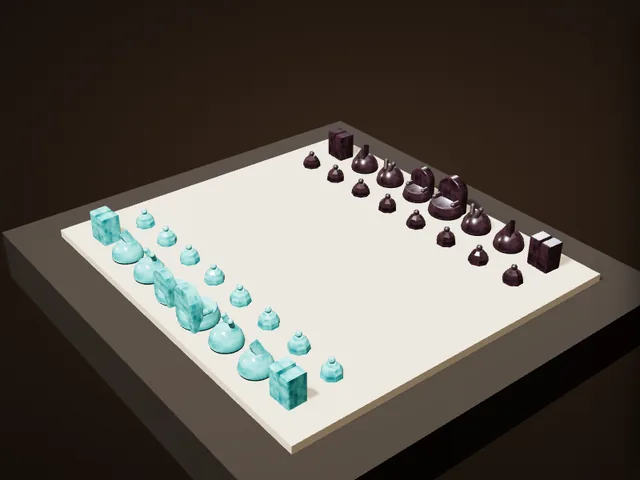
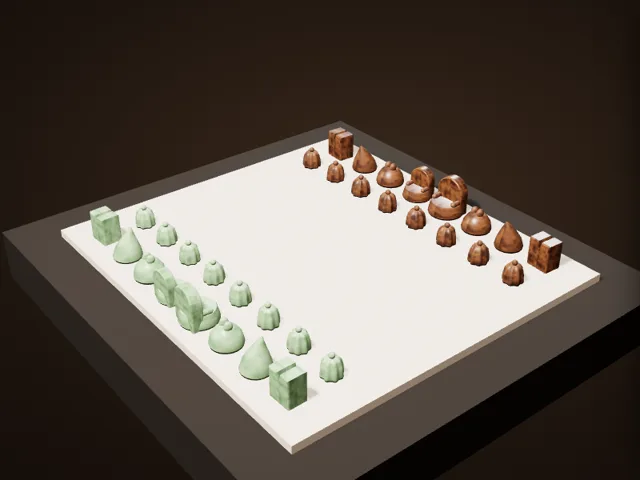
博物館：ニーシャープールのチェスセットの色と駒の形を展示写真に合わせて修正、説明を14言語で更新
Claude-Session: https://claude.ai/code/session_01EiWRAZTxRF5M5nk5vdR2jJ

Changed region(s): [[0.125, 0.4375, 0.5625, 0.875], [0.4688, 0.25, 0.875, 0.5938], [0.5, 0.875, 0.5312, 0.9062]]

diff --git a/atlas/museum/ex/nishapur.js b/atlas/museum/ex/nishapur.js
@@ -3,7 +3,7 @@
    12th century. Abstract shatranj forms (the Met): shah = a throne, firzan (vizier) = a smaller throne, elephant = two tusk-like
    protrusions, horse = a triangular knob for the head, chariot = rectangular with a wedge at the top, pawn = a faceted hemisphere
    with a knob. Sizes: king H. 5.1 cm, diam. 5.4; pawn H. 3.3, diam. 2.9 (the Met). The other pieces' sizes, the exact profiles and
-   the glaze effects are estimates; the 32 are set out in the opening position of shatranj for display (no board survives with them). */
+   the glaze effects are estimates (colours checked 2026-11-21 against photographs of the set: the light pieces a soft sea-green, the dark a streaky amber-brown; pawns as ribbed bells, horses as forward-leaning cones); the 32 are set out in the opening position of shatranj for display (no board survives with them). */
 (function () {
   'use strict';
   (window.AtlasEx = window.AtlasEx || {}).nishapur = {
@@ -15,14 +15,15 @@
         for (let y = 0; y < h; y++) for (let x = 0; x < w; x++) { const a = n(x / 70, y / 70, 4), b = n(x / 12, y / 12, 2), k = Math.min(1, Math.max(0, (a - .35) * 1.6 + (b - .5) * .25 + y / h * .35)), i = (y * w + x) * 4;
           d[i] = A[0] + (B[0] - A[0]) * k; d[i + 1] = A[1] + (B[1] - A[1]) * k; d[i + 2] = A[2] + (B[2] - A[2]) * k; d[i + 3] = 255; }
         g.putImageData(img, 0, 0);
-        if (crackle) { g.strokeStyle = 'rgba(20,60,64,.18)'; g.lineWidth = .8; let s = seed; const r = () => ((s = (s * 16807) % 2147483647) / 2147483647);
+        if (crackle) { g.strokeStyle = 'rgba(40,70,44,.16)'; g.lineWidth = .8; let s = seed; const r = () => ((s = (s * 16807) % 2147483647) / 2147483647);
           for (let q = 0; q < 140; q++) { let x = r() * w, y = r() * h; g.beginPath(); g.moveTo(x, y); for (let k = 0; k < 4; k++) { x += (r() - .5) * 40; y += (r() - .5) * 40; g.lineTo(x, y); } g.stroke(); } }
         // the white body showing through where the glaze ran thin, at the edges (a few soft pale spots)
         let s2 = seed * 7; const r2 = () => ((s2 = (s2 * 16807) % 2147483647) / 2147483647);
         for (let q = 0; q < 10; q++) { const gr = g.createRadialGradient(0, 0, 0, 0, 0, 14); g.save(); g.translate(r2() * w, r2() * h * .5); gr.addColorStop(0, `rgba(230,236,226,${pale})`); gr.addColorStop(1, 'rgba(230,236,226,0)'); g.fillStyle = gr; g.fillRect(-14, -14, 28, 28); g.restore(); }
       });
-      const TQ = K.mat({ map: glazeT([92, 196, 196], [26, 120, 132], true, 21), color: '#ffffff', roughness: .2, clearcoat: 1, clearcoatRoughness: .12 });
-      const MN = K.mat({ map: glazeT([54, 34, 46], [16, 9, 15], false, 37, .1), color: '#ffffff', roughness: .22, clearcoat: 1, clearcoatRoughness: .14 });
+      // (after the Met's photographs: the 'turquoise' has aged to a soft sea-green, the manganese to a streaky amber-brown; a satin sheen)
+      const TQ = K.mat({ map: glazeT([150, 180, 142], [100, 136, 98], true, 21), color: '#ffffff', roughness: .38, clearcoat: .55, clearcoatRoughness: .35 });
+      const MN = K.mat({ map: glazeT([124, 78, 46], [50, 26, 16], false, 37, .12), color: '#ffffff', roughness: .38, clearcoat: .55, clearcoatRoughness: .35 });
       // extruded forms carry UVs in centimetres: give them their own copies of the glazes, the texture spread over ~4 cm
       const perCm = (m) => { const c = m.clone(); c.map = m.map.clone(); c.map.wrapS = c.map.wrapT = TT.RepeatWrapping; c.map.repeat.set(.24, .24); c.map.needsUpdate = true; return c; };
       const TQx = perCm(TQ), MNx = perCm(MN), X2 = m => m === TQ ? TQx : MNx;
@@ -41,16 +42,17 @@
       };
       const dome = (m, r, h) => lathe([[0, 0], [r, 0], [r * 1.03, h * .12], [r * .92, h * .5], [r * .66, h * .82], [r * .3, h * .98], [0, h]], 30);
       const elephant = (m) => { const p = new TT.Group(); add(p, dome(m, 2.15, 2.7), m);
-        [-1, 1].forEach(k => { const t = add(p, new TT.CapsuleGeometry(.36, 1.25, 6, 12), m, k * .62, 3.0, .45); t.rotation.set(-.35, 0, -k * .28); }); return p; };
-      const horse = (m) => { const p = new TT.Group(); add(p, dome(m, 2.15, 2.6), m);
-        const S = new TT.Shape(); S.moveTo(-.75, 0); S.lineTo(.75, 0); S.lineTo(0, 1.9); S.closePath(); const hd = add(p, ext(S, .95, .16), X2(m), 0, 2.15, .55); hd.rotation.x = -.42; return p; };
+        [-1, 1].forEach(k => { const t = add(p, new TT.SphereGeometry(.62, 16, 12), m, k * .5, 2.75, .05); t.scale.set(.8, 1.15, 1); }); return p; };   // the top split into two low humps (the tusks)
+      const horse = (m) => { const p = new TT.Group();   // a tall cone rising to a point that leans forward (the head)
+        const c = add(p, lathe([[0, 0], [2.0, 0], [2.05, .3], [1.75, 1.4], [1.15, 2.6], [.55, 3.6], [.18, 4.2], [0, 4.3]], 30), m); c.geometry.translate(0, 0, 0);
+        const pos = c.geometry.attributes.position; for (let i = 0; i < pos.count; i++) { const y = pos.getY(i); pos.setZ(i, pos.getZ(i) + Math.pow(y / 4.3, 2) * .9); } c.geometry.computeVertexNormals(); return p; };
       const rook = (m) => { const p = new TT.Group(); const S = new TT.Shape(); const w = 1.55, h = 3.9;
         S.moveTo(-w, 0); S.lineTo(w, 0); S.lineTo(w, h); S.lineTo(.42, h); S.lineTo(0, h - 1.05); S.lineTo(-.42, h); S.lineTo(-w, h); S.closePath();
         add(p, ext(S, 2.3, .22), X2(m)); return p; };
-      const pawn = (m) => { const p = new TT.Group();
-        const g = new TT.SphereGeometry(1.45, 8, 4, 0, Math.PI * 2, 0, Math.PI / 2); const o = add(p, g, m); o.scale.y = 1.3; o.material = m.clone(); o.material.flatShading = true;
-        add(p, new TT.CircleGeometry(1.45, 8), m).rotation.x = Math.PI / 2;
-        add(p, new TT.SphereGeometry(.42, 12, 8), m, 0, 1.9 + .42 * .6, 0); add(p, new TT.CylinderGeometry(.26, .32, .35, 10), m, 0, 1.9, 0); return p; };
+      const pawn = (m) => { const p = new TT.Group();   // a ribbed bell (eight lobes) with a knob
+        const g = lathe([[0, 0], [1.35, 0], [1.4, .25], [1.32, 1.2], [1.15, 2.0], [.8, 2.5], [0, 2.6]], 48); const pos = g.attributes.position;
+        for (let i = 0; i < pos.count; i++) { const x = pos.getX(i), z = pos.getZ(i), a = Math.atan2(z, x), k = 1 + .07 * Math.cos(a * 8); pos.setX(i, x * k); pos.setZ(i, z * k); } g.computeVertexNormals(); add(p, g, m);
+        add(p, new TT.SphereGeometry(.4, 12, 8), m, 0, 2.6 + .4 * .6, 0); add(p, new TT.CylinderGeometry(.26, .32, .35, 10), m, 0, 2.6, 0); return p; };
       // ---- set out as at the start of a game of shatranj: turquoise at the front, manganese behind
       const SQ = 6.2, row = ['r', 'h', 'e', 'v', 'k', 'e', 'h', 'r'];
       const make = (t, m) => t === 'k' ? throne(m, 1) : t === 'v' ? throne(m, .84) : t === 'e' ? elephant(m) : t === 'h' ? horse(m) : t === 'r' ? rook(m) : pawn(m);
@@ -59,7 +61,7 @@
         for (let i = 0; i < 8; i++) { const o = make('p', m); o.position.set((i - 3.5) * SQ, 0, side * 2.5 * SQ); o.rotation.y = i * .4; G.add(o); }
       });
       // the case floor: a pale, unmarked linen (the set's own board is lost)
-      const linT = K.tex(256, 256, (g, w, h) => { const n = K.noise(3), img = g.createImageData(w, h), d = img.data; for (let y = 0; y < h; y++) for (let x = 0; x < w; x++) { const wv = (Math.sin(x * 1.7) * .5 + .5) * (Math.sin(y * 1.7 + 1) * .5 + .5), k = .86 + wv * .08 + (n(x / 30, y / 4) - .5) * .1, i = (y * w + x) * 4; d[i] = 196 * k; d[i + 1] = 184 * k; d[i + 2] = 160 * k; d[i + 3] = 255; } g.putImageData(img, 0, 0); }, { rep: [6, 6] });
+      const linT = K.tex(256, 256, (g, w, h) => { const n = K.noise(3), img = g.createImageData(w, h), d = img.data; for (let y = 0; y < h; y++) for (let x = 0; x < w; x++) { const wv = (Math.sin(x * 1.7) * .5 + .5) * (Math.sin(y * 1.7 + 1) * .5 + .5), k = .86 + wv * .08 + (n(x / 30, y / 4) - .5) * .1, i = (y * w + x) * 4; d[i] = 228 * k; d[i + 1] = 214 * k; d[i + 2] = 200 * k; d[i + 3] = 255; } g.putImageData(img, 0, 0); }, { rep: [6, 6] });
       const lin = K.mat({ map: linT, color: '#ffffff', roughness: .95, sheen: .3, sheenRoughness: .8, sheenColor: K.lin('#fff6e4') });
       const base = new TT.Mesh(new TT.BoxGeometry(56, 1.2, 52), lin); base.position.y = -.6; base.receiveShadow = true; G.add(base);
       return G;

diff --git a/atlas/museum/gallery-hi.js b/atlas/museum/gallery-hi.js
@@ -112,8 +112,8 @@
         ['घोड़ा', 'सिर के लिए एक अकेला तिकोना उभार घोड़े को दर्शाता है। यह आज के नाइट (घोड़े) की तरह चलता है।'],
         ['रथ (रुख़)', 'ऊपर कील के आकार के कटाव वाला एक आयताकार मोहरा। फ़ारसी रुख़ (rukh), यानी "रथ", से ही अंग्रेज़ी का "rook" (रूक) शब्द बना।'],
         ['एक प्यादा', 'छोटी घुंडी वाला पहलूदार गुंबद। ऊँचाई 3.3 सेमी।'],
-        ['मैंगनीज़ वाला पक्ष', 'दूसरी सेना पर मैंगनीज़ ग्लेज़ है, काले के क़रीब बैंगनी, जिसे सफ़ेद मिट्टी के ऊपर पकाया गया है।']],
-      model: 'राजा और प्यादे का आकार, हर रंग के मोहरों की संख्या (17 फ़िरोज़ी, 15 मैंगनीज़) और हर आकार की विशेषताएँ संग्रहालय के रिकॉर्ड के अनुसार हैं। बाक़ी मोहरों का आकार, सटीक रूपरेखा और ग्लेज़ के प्रभाव (जमाव, बारीक दरारें) अनुमान हैं। कोई बिसात नहीं बची, इसलिए मोहरे कपड़े पर अरबी शतरंज (shatranj) की शुरुआती स्थिति में रखे गए हैं।',
+        ["मैंगनीज़ वाली सेना", "दूसरी सेना पर मैंगनीज़ का शीशा है — जिसे लगभग काला बैंगनी बताया जाता है, पर प्रदर्शित सेट की तस्वीरों में यह धारीदार लाल-भूरा दिखता है।"]],
+      model: "शाह और प्यादे का माप, हर रंग के मोहरों की संख्या (17 फ़िरोज़ी, 15 मैंगनीज़) और हर आकार की विशेषताएँ संग्रहालय के अभिलेख के अनुसार हैं। रंगों और आकारों का रूप प्रदर्शित सेट की तस्वीरों (विकिमीडिया कॉमन्स) से मिलाया गया: फ़िरोज़ी शीशा हल्का समुद्री हरा, मैंगनीज़ धारीदार लाल-भूरा, प्यादे धारीदार घंटियाँ, घोड़े आगे झुके शंकु। बाकी मोहरों के माप और ठीक रूपरेखा अनुमान हैं। बिसात नहीं बची, इसलिए मोहरे कपड़े पर शतरंज की शुरुआती स्थिति में रखे हैं।",
       src: [['The Met, “Chess Set” 1971.193a–ff', 'https://metmuseum.org/art/collection/search/452204'], ['The Met, शिक्षकों के लिए संसाधन (Image 37: नीशापुर में खुदाई से मिला मिलता-जुलता प्यादा)', 'https://www.metmuseum.org/learn/educators/curriculum-resources/art-of-the-islamic-world/unit-six/chapter-one/featured-works-of-art/image-37']] },
     ottoman: { name: 'ऑटोमन शतरंज और बैकगैमन बोर्ड', alt: 'कछुए के खोल और सीप से बना मोड़ने वाला बोर्ड', date: 'लगभग 1600–1700', where: 'तुर्किये (संभवतः इस्तांबुल)', found: 'ऑटोमन काल; संग्रहालय ने 1907 में हेग की एक फ़र्म से ख़रीदा',
       museum: 'विक्टोरिया एंड अल्बर्ट म्यूज़ियम, लंदन', no: '861-1907', mat: 'लकड़ी, सोने के वर्क पर कछुए का खोल, सीप, हड्डी, हाथीदाँत, व्हेल की बलीन, विभिन्न लकड़ियाँ', size: 'खुला 56.5 × 56.3 सेमी · बंद होने पर मोटाई 5.5 सेमी',

diff --git a/atlas/museum/gallery-ru.js b/atlas/museum/gallery-ru.js
@@ -112,8 +112,8 @@
         ['Конь', 'Один треугольный выступ, обозначающий голову, изображает коня. Ходит так же, как конь в современных шахматах.'],
         ['Колесница (рух)', 'Прямоугольная фигура с клиновидным вырезом сверху. От персидского rukh, «колесница», происходит английское название ладьи — «rook».'],
         ['Пешка', 'Гранёный купол с маленькой шишечкой. Высота 3,3 см.'],
-        ['Марганцевая сторона', 'Другое войско покрыто марганцевой глазурью — фиолетовой, почти чёрной, обожжённой поверх белого черепка.']],
-      model: 'Размеры короля и пешки, число фигур каждого цвета (17 бирюзовых, 15 марганцевых) и особенности каждой формы взяты из описания музея. Размеры остальных фигур, точные профили и эффекты глазури (затёки, кракелюр) — оценочные. Доска не сохранилась, поэтому фигуры расставлены на ткани в начальной позиции шатранджа.',
+        ["Марганцевая сторона", "Другое войско покрыто марганцевой глазурью — её описывают как почти чёрно-фиолетовую, но на фотографиях экспозиции она выглядит полосато-красно-коричневой."]],
+      model: "Размеры короля и пешки, число фигур каждого цвета (17 бирюзовых, 15 марганцевых) и черты каждой формы — по описанию музея. Вид цветов и форм сверен с фотографиями набора в экспозиции (Wikimedia Commons): бирюзовая глазурь мягкого морского зелёного цвета, марганцевая — полосато-красно-коричневая, пешки — ребристые колокольчики, кони — наклонённые вперёд конусы. Размеры остальных фигур и точные профили — предположение. Доска не сохранилась, фигуры расставлены на ткани в начальной позиции шатранджа.",
       src: [['The Met, “Chess Set” 1971.193a–ff', 'https://metmuseum.org/art/collection/search/452204'], ['The Met, материалы для педагогов (Image 37: похожая пешка, найденная при раскопках в Нишапуре)', 'https://www.metmuseum.org/learn/educators/curriculum-resources/art-of-the-islamic-world/unit-six/chapter-one/featured-works-of-art/image-37']] },
     ottoman: { name: 'Османская доска для шахмат и нардов', alt: 'Складная доска из черепахового панциря и перламутра', date: 'Около 1600–1700 годов', where: 'Турция (вероятно, Стамбул)', found: 'Османский период; куплена музеем в 1907 году у фирмы в Гааге',
       museum: 'Музей Виктории и Альберта, Лондон', no: '861-1907', mat: 'Дерево, черепаховый панцирь поверх сусального золота, перламутр, кость, слоновая кость, китовый ус, различные породы дерева', size: 'В раскрытом виде 56,5 × 56,3 см · в сложенном толщина 5,5 см',

diff --git a/atlas/museum/gallery-ar.js b/atlas/museum/gallery-ar.js
@@ -112,8 +112,8 @@
         ['الفرس', 'نتوء مثلث واحد يمثّل الرأس يدلّ على الفرس. ويتحرك مثل الحصان اليوم.'],
         ['الرخ (العربة)', 'قطعة مستطيلة في أعلاها شقّ على شكل إسفين. الكلمة الفارسية rukh، أي «العربة»، هي أصل اسمها العربي «الرخ»، ومنها جاء الاسم الإنجليزي «rook».'],
         ['بيدق', 'قبة متعددة الأوجه بزرّ صغير. ارتفاعها 3.3 سم.'],
-        ['الطرف المنغنيزي', 'الجيش الآخر مطليّ بطلاء منغنيزي، بنفسجي قريب من الأسود، مشويّ فوق الجسم الأبيض.']],
-      model: 'أحجام الملك والبيدق، وعدد القطع من كل لون (17 فيروزية و15 منغنيزية)، وسمات كل شكل مأخوذة من سجل المتحف. أما أحجام القطع الأخرى والمقاطع الجانبية الدقيقة وتأثيرات الطلاء (التجمّعات والتشقّقات الدقيقة) فتقديرية. لم يبقَ أي لوح، لذا وُضعت القطع على قماش في وضع البداية في الشطرنج العربي (shatranj).',
+        ["جيش المنغنيز", "الجيش الآخر مزجج بالمنغنيز، ويوصف بأنه بنفسجي قريب من الأسود، لكنه يبدو في صور الطقم المعروض بنيًّا محمرًّا مخططًا."]],
+      model: "مقاسا الشاه والبيدق، وعدد القطع من كل لون (17 فيروزية، 15 منغنيزية)، وسمات كل شكل تتبع سجل المتحف. وقد قورن مظهر الألوان والأشكال بصور الطقم المعروض (ويكيميديا كومنز): التزجيج الفيروزي أخضر بحري هادئ، والمنغنيز بني محمر مخطط، والبيادق أجراس مضلعة، والأحصنة مخاريط مائلة إلى الأمام. مقاسات القطع الأخرى والخطوط الدقيقة تقديرية. لم تبق رقعة، فوُضعت القطع على قماش في وضع بداية الشطرنج.",
       src: [['The Met, “Chess Set” 1971.193a–ff (متحف المتروبوليتان)', 'https://metmuseum.org/art/collection/search/452204'], ['The Met، مورد للمعلّمين (Image 37: بيدق مشابه عُثر عليه في تنقيبات نيسابور)', 'https://www.metmuseum.org/learn/educators/curriculum-resources/art-of-the-islamic-world/unit-six/chapter-one/featured-works-of-art/image-37']] },
     ottoman: { name: 'لوح عثماني للشطرنج والطاولة', alt: 'لوح قابل للطي من صدف السلحفاة وصدف اللؤلؤ', date: 'نحو 1600–1700', where: 'تركيا (على الأرجح إسطنبول)', found: 'العهد العثماني؛ اشتراه المتحف عام 1907 من شركة في لاهاي',
       museum: 'متحف فيكتوريا وألبرت، لندن', no: '861-1907', mat: 'خشب، صدف السلحفاة فوق ورق الذهب، صدف اللؤلؤ، عظم، عاج، عظم الحوت (البالين)، أخشاب متنوعة', size: 'مفتوحًا 56.5 × 56.3 سم · مطويًّا بسماكة 5.5 سم',

diff --git a/atlas/museum/gallery-fr.js b/atlas/museum/gallery-fr.js
@@ -112,8 +112,8 @@
         ["Le cheval", "Un seul ergot triangulaire, figurant la tête, représente le cheval. Il se déplace comme le cavalier d'aujourd'hui."],
         ["Le char (rukh)", "Une pièce rectangulaire entaillée d'un coin sur le dessus. Le persan rukh, « char », a donné l'anglais « rook » (la tour), et aussi le français « roquer »."],
         ["Un pion", "Un dôme à facettes avec un petit bouton. 3,3 cm de haut."],
-        ["Le camp au manganèse", "L'autre armée porte une glaçure au manganèse, un violet proche du noir, cuite sur le corps blanc."]],
-      model: "Les dimensions du roi et du pion, le nombre de pièces de chaque couleur (17 turquoise, 15 manganèse) et les caractères de chaque forme suivent la notice du musée. Les dimensions des autres pièces, les profils exacts et les effets de glaçure (coulures, craquelures) sont des estimations. Aucun échiquier n'est conservé : les pièces sont donc disposées sur un tissu dans la position initiale du shatranj.",
+        ["Le camp manganèse", "L'autre armée porte une glaçure au manganèse — décrite comme un violet presque noir, mais qui paraît brun-roux veiné sur les photographies du jeu exposé."]],
+      model: "Les dimensions du roi et du pion, le nombre de pièces de chaque couleur (17 turquoise, 15 manganèse) et les traits de chaque forme suivent la notice du musée. L'aspect des couleurs et des formes a été vérifié sur des photographies du jeu exposé (Wikimedia Commons) : la glaçure turquoise d'un vert d'eau doux, le manganèse brun-roux veiné, les pions en cloches côtelées, les chevaux en cônes penchés vers l'avant. Les dimensions des autres pièces et les profils exacts sont estimés. Aucun échiquier n'est conservé ; les pièces sont posées sur un tissu dans la position de départ du shatranj.",
       src: [["The Met, “Chess Set” 1971.193a–ff", "https://metmuseum.org/art/collection/search/452204"], ["The Met, ressource pour les enseignants (Image 37 : un pion semblable mis au jour à Nishapur)", "https://www.metmuseum.org/learn/educators/curriculum-resources/art-of-the-islamic-world/unit-six/chapter-one/featured-works-of-art/image-37"]] },
     ottoman: { name: "Plateau ottoman d'échecs et de backgammon", alt: "Un plateau pliant en écaille de tortue et nacre", date: "Vers 1600–1700", where: "Turquie (probablement Istanbul)", found: "Période ottomane ; acheté par le musée en 1907 à une maison de La Haye",
       museum: "Victoria and Albert Museum, Londres", no: "861-1907", mat: "Bois, écaille de tortue sur feuille d'or, nacre, os, ivoire, fanon de baleine, bois divers", size: "Ouvert 56,5 × 56,3 cm · fermé 5,5 cm d’épaisseur",

diff --git a/atlas/museum/gallery-ja.js b/atlas/museum/gallery-ja.js
@@ -113,8 +113,8 @@
         ['馬', '頭を表す三角のでっぱり1つで馬を表します。今のナイトと同じ動き。'],
         ['戦車（ルフ）', '上にくさび形の切れこみが入った四角い駒。ペルシア語の「ルフ（戦車）」が、英語の「ルーク」の語源です。'],
         ['歩兵', '多面体の半球に小さなつまみ。高さ3.3cm。'],
-        ['マンガン釉の駒', 'もう一方の軍は、黒に近い紫のマンガン釉。白い器の上に色の釉薬をかけて焼いています。']],
-      model: '王と歩兵の大きさ、色の数（トルコ石色17・マンガン15）、各駒の形の特徴は美術館の記録に従いました。王と歩兵以外の大きさ、細かい輪郭、釉薬のむらや貫入（ひび模様）は推定です。盤は残っていないため、布の上にシャトランジのはじめの並びで置いています。',
+        ["マンガン釉の駒", "もう一方の軍はマンガン釉。黒に近い紫の釉薬ですが、展示の写真では赤茶色のむらのある色に見えます。"]],
+      model: "王と歩兵の大きさ、色の数（トルコ石色17・マンガン15）、各駒の形の特徴は美術館の記録に従いました。色と形の見え方は、ウィキメディア・コモンズにある展示写真と見比べています（トルコ石色の釉薬はやわらかな青緑、マンガン釉は赤茶色のむら、歩兵は縦の筋の入った釣鐘形、馬は前に傾いたとがった円錐形）。王と歩兵以外の大きさ、細かい輪郭は推定です。盤は残っていないため、布の上にシャトランジのはじめの並びで置いています。",
       src: [['メトロポリタン美術館「Chess Set」1971.193a–ff', 'https://metmuseum.org/art/collection/search/452204'], ['メトロポリタン美術館 教育資料（Image 37：ニーシャープールで似た歩兵が出土）', 'https://www.metmuseum.org/learn/educators/curriculum-resources/art-of-the-islamic-world/unit-six/chapter-one/featured-works-of-art/image-37']] },
     ottoman: { name: 'オスマン帝国のチェス・バックギャモン盤', alt: '鼈甲と螺鈿の折りたたみ盤', date: '1600〜1700年ごろ', where: 'トルコ（イスタンブール？）', found: 'オスマン帝国時代。1907年、ハーグの商会から博物館が購入',
       museum: 'ヴィクトリア＆アルバート博物館（ロンドン）', no: '861-1907', mat: '木、金箔の上の鼈甲（タイマイ）、螺鈿、骨、象牙、鯨のひげ、さまざまな木', size: '開いて56.5×56.3cm・閉じて厚さ5.5cm',

diff --git a/atlas/museum/gallery-es.js b/atlas/museum/gallery-es.js
@@ -112,8 +112,8 @@
         ["El caballo", "Un único saliente triangular que figura la cabeza representa al caballo. Se mueve como el caballo actual."],
         ["El carro (rukh)", "Una pieza rectangular con una muesca en cuña en la parte superior. Del persa rukh, «carro», vienen el inglés «rook» y el antiguo nombre español de la torre, «roque» (de ahí «enroque»)."],
         ["Un peón", "Una cúpula facetada con un pequeño botón. 3.3 cm de alto."],
-        ["El bando de manganeso", "El otro ejército lleva un vidriado de manganeso, un púrpura cercano al negro, cocido sobre el cuerpo blanco."]],
-      model: "Los tamaños del rey y del peón, el número de piezas de cada color (17 turquesa, 15 de manganeso) y los rasgos de cada forma siguen el registro del museo. Los tamaños de las demás piezas, los perfiles exactos y los efectos del vidriado (acumulaciones, craquelado) son estimaciones. No se conserva ningún tablero, así que las piezas se disponen sobre una tela en la posición inicial del shatranj.",
+        ["El bando de manganeso", "El otro ejército lleva un vidriado de manganeso, descrito como un morado casi negro, aunque en las fotografías del juego expuesto parece un pardo rojizo veteado."]],
+      model: "El tamaño del rey y del peón, el número de piezas de cada color (17 turquesa, 15 manganeso) y los rasgos de cada forma siguen la ficha del museo. El aspecto de colores y formas se comprobó con fotografías del juego expuesto (Wikimedia Commons): el vidriado turquesa, un verde agua suave; el manganeso, pardo rojizo veteado; los peones, campanas acanaladas; los caballos, conos inclinados hacia delante. Los tamaños de las demás piezas y los perfiles exactos son estimaciones. No se conserva tablero; las piezas están sobre tela en la posición inicial del shatranj.",
       src: [["The Met, “Chess Set” 1971.193a–ff", "https://metmuseum.org/art/collection/search/452204"], ["The Met, recurso para educadores (Image 37: un peón similar excavado en Nishapur)", "https://www.metmuseum.org/learn/educators/curriculum-resources/art-of-the-islamic-world/unit-six/chapter-one/featured-works-of-art/image-37"]] },
     ottoman: { name: "Tablero otomano de ajedrez y backgammon", alt: "Un tablero plegable de carey y nácar", date: "Hacia 1600–1700", where: "Turquía (probablemente Estambul)", found: "Época otomana; comprado por el museo en 1907 a una firma de La Haya",
       museum: "Victoria and Albert Museum, Londres", no: "861-1907", mat: "Madera, carey sobre pan de oro, nácar, hueso, marfil, barbas de ballena, diversas maderas", size: "Abierto 56.5 × 56.3 cm · cerrado 5.5 cm de grosor",

diff --git a/atlas/museum/gallery-tr.js b/atlas/museum/gallery-tr.js
@@ -112,8 +112,8 @@
         ['At', 'Başı gösteren tek bir üçgen çıkıntı atı temsil eder. Bugünkü at gibi hareket eder.'],
         ['Savaş arabası (ruh)', 'Üstüne kama biçiminde oyuk açılmış dikdörtgen bir taş. Farsça rukh, “savaş arabası”, İngilizceye “rook” (kale) adını vermiştir; Türkçedeki “rok” hamlesinin adı da dolaylı olarak buradan gelir.'],
         ['Bir piyon', 'Küçük topuzlu, çok yüzlü bir kubbe. 3,3 cm yüksekliğinde.'],
-        ['Mangan sırlı taraf', 'Öteki ordu, beyaz hamurun üzerinde pişirilmiş, siyaha yakın mor bir mangan sırla kaplıdır.']],
-      model: 'Şah ve piyonun boyutları, her renkteki taş sayısı (17 turkuaz, 15 mangan) ve her biçimin özellikleri müzenin kaydına dayanır. Diğer taşların boyutları, kesin profilleri ve sır etkileri (birikmeler, çatlaklar) tahminidir. Hiçbir tahta günümüze ulaşmadığından taşlar, şatrancın başlangıç dizilişinde bir kumaşın üzerine yerleştirilmiştir.',
+        ["Mangan tarafı", "Öbür ordu mangan sırlıdır — neredeyse siyah bir mor olarak tanımlanır, ancak sergideki takımın fotoğraflarında damarlı kızıl kahverengi görünür."]],
+      model: "Şah ile piyonun ölçüleri, her renkteki taş sayısı (17 turkuaz, 15 mangan) ve her biçimin özellikleri müze kaydına göredir. Renklerin ve biçimlerin görünüşü sergideki takımın fotoğraflarıyla (Wikimedia Commons) karşılaştırıldı: turkuaz sır yumuşak bir deniz yeşili, mangan damarlı kızıl kahverengi, piyonlar yivli çanlar, atlar öne eğik koniler. Diğer taşların ölçüleri ve kesin profilleri tahmindir. Tahta kalmadığı için taşlar bir kumaş üzerinde şatrancın başlangıç dizilişinde durur.",
       src: [['The Met, “Chess Set” 1971.193a–ff', 'https://metmuseum.org/art/collection/search/452204'], ['The Met, eğitimciler için kaynak (Image 37: Nişabur\'da kazıyla çıkarılmış benzer bir piyon)', 'https://www.metmuseum.org/learn/educators/curriculum-resources/art-of-the-islamic-world/unit-six/chapter-one/featured-works-of-art/image-37']] },
     ottoman: { name: 'Osmanlı Satranç ve Tavla Tahtası', alt: 'Bağa ve sedeften katlanır bir tahta', date: 'Yaklaşık 1600–1700', where: 'Türkiye (muhtemelen İstanbul)', found: 'Osmanlı dönemi; müze tarafından 1907\'de Lahey\'deki bir firmadan satın alındı',
       museum: 'Victoria and Albert Müzesi, Londra', no: '861-1907', mat: 'Ahşap, varak altın üzerine bağa, sedef, kemik, fildişi, balina çubuğu, çeşitli ağaçlar', size: 'Açıkken 56,5 × 56,3 cm · kapalıyken 5,5 cm kalınlık',

diff --git a/atlas/museum/gallery-pt.js b/atlas/museum/gallery-pt.js
@@ -112,8 +112,8 @@
         ["O cavalo", "Uma única saliência triangular, que indica a cabeça, representa o cavalo. Move-se como o cavalo de hoje."],
         ["O carro (rukh)", "Uma peça retangular com um entalhe em cunha no topo. Do persa rukh, “carro”, vem o inglês “rook” (a torre), e também o nome do “roque”."],
         ["Um peão", "Uma cúpula facetada com um pequeno botão. 3,3 cm de altura."],
-        ["O lado de manganês", "O outro exército tem um vidrado de manganês, um roxo próximo do preto, queimado sobre o corpo branco."]],
-      model: "Os tamanhos do rei e do peão, o número de peças de cada cor (17 turquesa, 15 de manganês) e as características de cada forma seguem o registro do museu. Os tamanhos das outras peças, os perfis exatos e os efeitos do vidrado (acúmulos, craquelê) são estimativas. Nenhum tabuleiro sobreviveu, por isso as peças estão dispostas sobre um tecido na posição inicial do shatranj.",
+        ["O lado de manganês", "O outro exército usa um vidrado de manganês — descrito como um roxo quase preto, embora nas fotografias do jogo exposto pareça castanho-avermelhado raiado."]],
+      model: "O tamanho do rei e do peão, o número de peças de cada cor (17 turquesa, 15 manganês) e os traços de cada forma seguem o registro do museu. A aparência das cores e formas foi conferida com fotografias do jogo exposto (Wikimedia Commons): o vidrado turquesa num verde-água suave, o manganês castanho-avermelhado raiado, os peões como sinos canelados, os cavalos como cones inclinados para a frente. Os tamanhos das outras peças e os perfis exatos são estimativas. Não há tabuleiro; as peças estão sobre tecido na posição inicial do shatranj.",
       src: [["The Met, “Chess Set” 1971.193a–ff", "https://metmuseum.org/art/collection/search/452204"], ["The Met, recurso para educadores (Image 37: um peão semelhante escavado em Nishapur)", "https://www.metmuseum.org/learn/educators/curriculum-resources/art-of-the-islamic-world/unit-six/chapter-one/featured-works-of-art/image-37"]] },
     ottoman: { name: "Tabuleiro otomano de xadrez e gamão", alt: "Um tabuleiro dobrável de casco de tartaruga e madrepérola", date: "Por volta de 1600–1700", where: "Turquia (provavelmente Istambul)", found: "Período otomano; comprado pelo museu em 1907 de uma firma de Haia",
       museum: "Victoria and Albert Museum, Londres", no: "861-1907", mat: "Madeira, casco de tartaruga sobre folha de ouro, madrepérola, osso, marfim, barbatana de baleia, madeiras diversas", size: "Aberto 56,5 × 56,3 cm · fechado 5,5 cm de espessura",

diff --git a/atlas/museum/gallery-ko.js b/atlas/museum/gallery-ko.js
@@ -112,8 +112,8 @@
         ["말", "머리를 나타내는 세모난 돌기 하나로 말을 표현합니다. 오늘날의 나이트처럼 움직입니다."],
         ["전차(루흐)", "위쪽에 쐐기 모양 홈을 판 직사각형 말. ‘전차’를 뜻하는 페르시아어 rukh에서 영어 ‘rook’(룩)이 나왔습니다."],
         ["보병", "작은 꼭지가 달린 다면체 돔. 높이 3.3cm."],
-        ["망간 유약 편", "다른 한 편의 군대는 검정에 가까운 보라색 망간 유약을 흰 바탕 위에 입혀 구웠습니다."]],
-      model: "왕과 보병의 크기, 색별 개수(터키석색 17개, 망간 15개), 각 말의 형태 특징은 박물관 기록을 따랐습니다. 나머지 말의 크기, 정확한 윤곽, 유약 효과(고임, 빙열)는 추정입니다. 판은 남아 있지 않아, 천 위에 샤트란지의 시작 배치로 말을 놓았습니다.",
+        ["망간 유약의 말", "다른 편은 망간 유약. 검은빛에 가까운 보라색이라고 하지만, 전시 사진에서는 얼룩진 적갈색으로 보입니다."]],
+      model: "왕과 보병의 크기, 색깔별 개수(터키석색 17·망간 15), 각 말의 형태 특징은 미술관 기록을 따랐습니다. 색과 형태의 보이는 모습은 위키미디어 공용에 있는 전시 사진과 비교했습니다(터키석색 유약은 부드러운 청록, 망간은 얼룩진 적갈색, 보병은 세로 줄무늬가 든 종 모양, 말은 앞으로 기운 뾰족한 원뿔). 왕과 보병 외의 크기와 세세한 윤곽은 추정입니다. 판은 남아 있지 않아 천 위에 샤트란지의 시작 배치로 놓았습니다.",
       src: [["메트로폴리탄 미술관, “Chess Set” 1971.193a–ff", "https://metmuseum.org/art/collection/search/452204"], ["메트로폴리탄 미술관 교육 자료(Image 37: 니샤푸르에서 출토된 비슷한 보병)", "https://www.metmuseum.org/learn/educators/curriculum-resources/art-of-the-islamic-world/unit-six/chapter-one/featured-works-of-art/image-37"]] },
     ottoman: { name: "오스만 제국의 체스·백개먼 판", alt: "거북딱지와 자개로 꾸민 접이식 판", date: "1600~1700년경", where: "튀르키예(아마도 이스탄불)", found: "오스만 제국 시대. 1907년 헤이그의 한 상회에서 박물관이 구입",
       museum: "빅토리아 앨버트 박물관(런던)", no: "861-1907", mat: "나무, 금박 위의 거북딱지(대모), 자개, 뼈, 상아, 고래수염, 여러 가지 나무", size: "펼쳤을 때 56.5 × 56.3cm · 접었을 때 두께 5.5cm",

diff --git a/atlas/museum/gallery-de.js b/atlas/museum/gallery-de.js
@@ -112,8 +112,8 @@
         ['Das Pferd', 'Ein einzelner dreieckiger Knauf als Kopf steht für das Pferd. Es zieht wie der heutige Springer.'],
         ['Der Wagen (rukh)', 'Eine rechteckige Figur mit einer keilförmigen Kerbe oben. Das persische rukh, „Wagen“, gab dem Englischen sein „rook“ (Turm), und auch die „Rochade“ geht darauf zurück.'],
         ['Ein Bauer', 'Eine facettierte Kuppel mit kleinem Knauf. 3,3 cm hoch.'],
-        ['Die Mangan-Partei', 'Die andere Armee trägt eine Manganglasur, ein fast schwarzes Violett, über dem weißen Scherben gebrannt.']],
-      model: 'Die Maße von König und Bauer, die Anzahl je Farbe (17 türkis, 15 Mangan) und die Merkmale jeder Form folgen den Angaben des Museums. Die Maße der übrigen Figuren, die genauen Profile und die Glasureffekte (Glasurpfützen, Craquelé) sind Schätzungen. Ein Brett ist nicht erhalten, daher stehen die Figuren auf einem Tuch in der Ausgangsstellung des Schatrandsch.',
+        ["Die Manganseite", "Die andere Partei trägt eine Manganglasur – als fast schwarzes Violett beschrieben, auf Fotos des ausgestellten Satzes wirkt sie jedoch streifig rotbraun."]],
+      model: "Größe von König und Bauer, die Zahl je Farbe (17 türkis, 15 Mangan) und die Merkmale jeder Form folgen dem Museumsdatensatz. Wie Farben und Formen wirken, wurde mit Fotos des ausgestellten Satzes (Wikimedia Commons) abgeglichen: die Türkisglasur ein sanftes Meergrün, das Mangan streifig rotbraun, die Bauern gerippte Glocken, die Pferde nach vorn geneigte Kegel. Die Größen der übrigen Figuren und die genauen Umrisse sind geschätzt. Ein Brett ist nicht erhalten; die Figuren stehen auf Stoff in der Anfangsstellung des Schatrandsch.",
       src: [['The Met, “Chess Set” 1971.193a–ff', 'https://metmuseum.org/art/collection/search/452204'], ['The Met, Material für Lehrkräfte (Image 37: ein ähnlicher, in Nishapur ausgegrabener Bauer)', 'https://www.metmuseum.org/learn/educators/curriculum-resources/art-of-the-islamic-world/unit-six/chapter-one/featured-works-of-art/image-37']] },
     ottoman: { name: 'Osmanisches Schach- und Backgammonbrett', alt: 'Ein Klappbrett aus Schildpatt und Perlmutt', date: 'Um 1600–1700', where: 'Türkei (wahrscheinlich Istanbul)', found: 'Osmanische Zeit; 1907 vom Museum bei einer Firma in Den Haag erworben',
       museum: 'Victoria and Albert Museum, London', no: '861-1907', mat: 'Holz, Schildpatt über Blattgold, Perlmutt, Knochen, Elfenbein, Fischbein (Barten), verschiedene Hölzer', size: 'Geöffnet 56,5 × 56,3 cm · geschlossen 5,5 cm dick',

diff --git a/atlas/museum/gallery-en.js b/atlas/museum/gallery-en.js
@@ -112,8 +112,8 @@
         ['The horse', 'A single triangular knob for the head stands for the horse. It moves like today\'s knight.'],
         ['The chariot (rukh)', 'A rectangular piece with a wedge cut into the top. The Persian rukh, "chariot", gave English its "rook".'],
         ['A pawn', 'A faceted dome with a little knob. 3.3 cm high.'],
-        ['The manganese side', 'The other army wears a manganese glaze, a purple close to black, fired over the white body.']],
-      model: 'The sizes of the king and pawn, the number in each colour (17 turquoise, 15 manganese) and the features of each form follow the museum\'s record. The other pieces\' sizes, the exact profiles and the glaze effects (pooling, crackle) are estimates. No board survives, so the pieces are set out on cloth in the opening position of shatranj.',
+        ["The manganese side", "The other army wears a manganese glaze — described as a purple close to black, though in photographs of the set on display it looks a streaky reddish brown."]],
+      model: "The sizes of the king and pawn, the number in each colour (17 turquoise, 15 manganese) and the features of each form follow the museum's record. How the colours and forms look was checked against photographs of the set on display (Wikimedia Commons): the turquoise glaze a soft sea-green, the manganese a streaky reddish brown, the pawns ribbed bells, the horses forward-leaning cones. The other pieces' sizes and the exact profiles are estimates. No board survives, so the pieces are set out on cloth in the opening position of shatranj.",
       src: [['The Met, "Chess Set" 1971.193a–ff', 'https://metmuseum.org/art/collection/search/452204'], ['The Met, educators\' resource (Image 37: a similar pawn excavated at Nishapur)', 'https://www.metmuseum.org/learn/educators/curriculum-resources/art-of-the-islamic-world/unit-six/chapter-one/featured-works-of-art/image-37']] },
     ottoman: { name: 'Ottoman Chess and Backgammon Board', alt: 'A folding board of turtle shell and mother-of-pearl', date: 'About 1600–1700', where: 'Turkey (probably Istanbul)', found: 'Ottoman period; bought by the museum in 1907 from a firm in The Hague',
       museum: 'Victoria and Albert Museum, London', no: '861-1907', mat: 'Wood, turtle shell over gold leaf, mother-of-pearl, bone, ivory, baleen, various woods', size: 'Open 56.5 × 56.3 cm · closed 5.5 cm thick',
